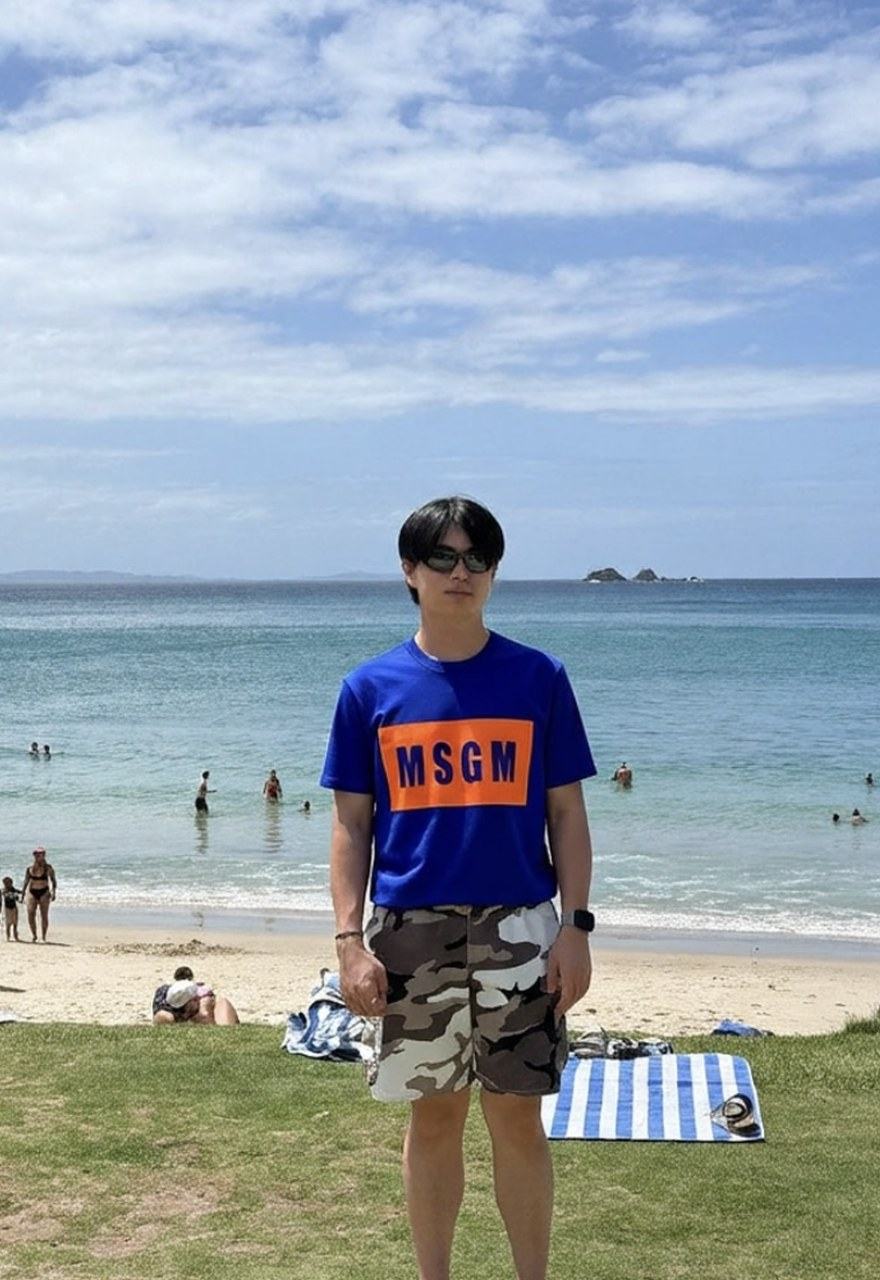
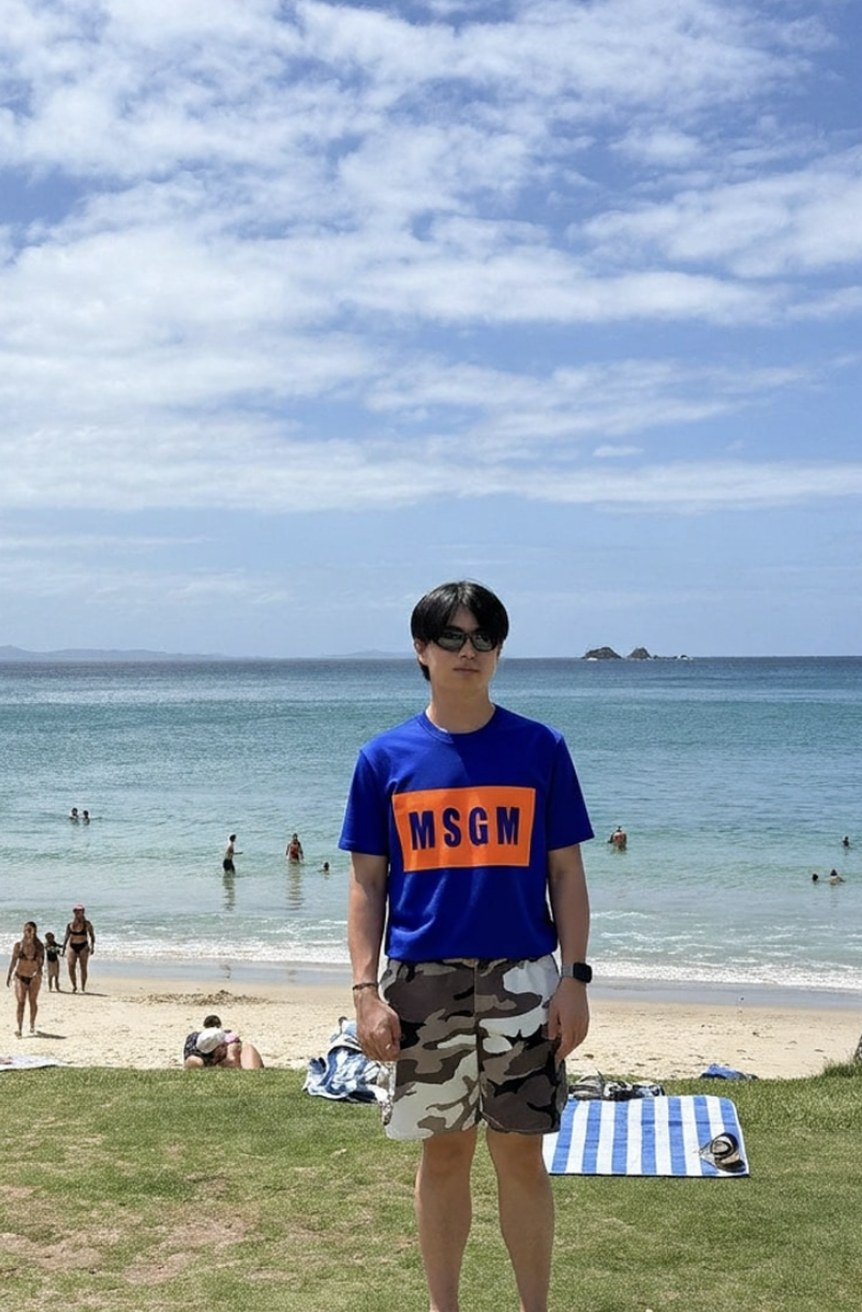
chore: 피팅 슬라이더 최대 줌아웃(원본 전체 표시, 프레임 비율 조정)

diff --git a/style.css b/style.css
@@ -215,7 +215,7 @@ main{ position: relative; z-index: 2; }
 .fit-select img{ width: 100%; display: block; border-radius: var(--r-md); box-shadow: var(--shadow-md); border: 1px solid var(--line); }
 .fit-row figcaption{ font-family: var(--display); font-size: .78rem; font-weight: 500; color: var(--ink-faint); margin-top: .9rem; text-align: center; }
 .fit-slider{ margin: clamp(2.4rem, 6vw, 4rem) auto 0; max-width: 380px; }
-.ba{ position: relative; width: 100%; aspect-ratio: 880 / 1280; border-radius: var(--r-md); overflow: hidden; box-shadow: var(--shadow-md); user-select: none; touch-action: none; cursor: ew-resize; background: #0d0d10; }
+.ba{ position: relative; width: 100%; aspect-ratio: 862 / 1312; border-radius: var(--r-md); overflow: hidden; box-shadow: var(--shadow-md); user-select: none; touch-action: none; cursor: ew-resize; background: #0d0d10; }
 .ba .ba-after{ position: absolute; inset: 0; width: 100%; height: 100%; object-fit: cover; pointer-events: none; }
 .ba .ba-before{ position: absolute; inset: 0; width: 50%; overflow: hidden; }
 .ba .ba-before img{ position: absolute; top: 0; left: 0; height: 100%; width: auto; max-width: none; pointer-events: none; }
